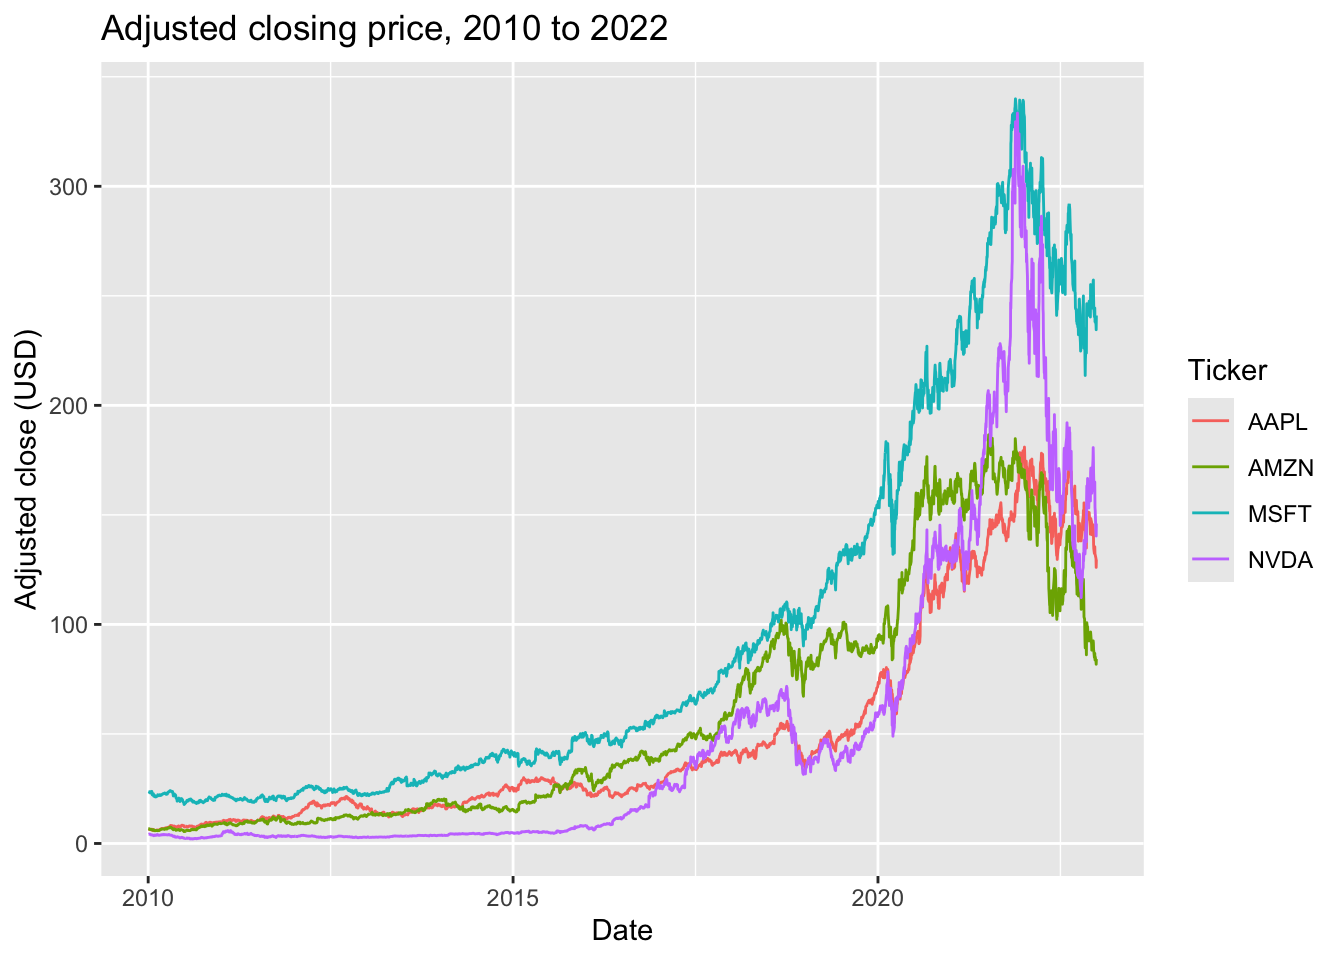
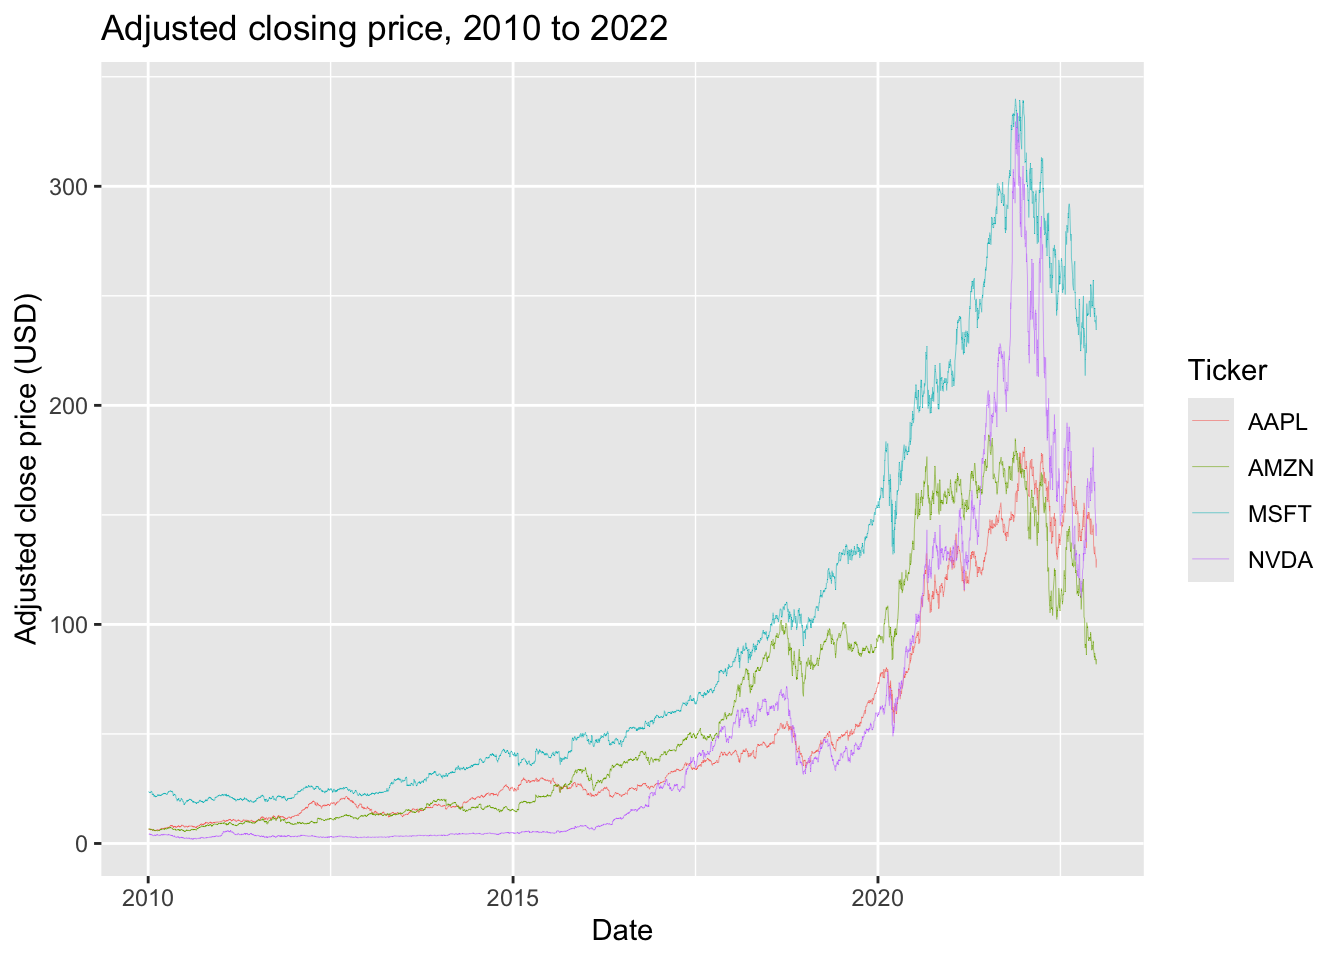
Website_vF

Changed region(s): [[0.0938, 0.0938, 0.8438, 0.875], [0.0, 0.3125, 0.0312, 0.6875]]

diff --git a/docs/bigtech.html b/docs/bigtech.html
@@ -6,7 +6,7 @@
 
 <meta name="viewport" content="width=device-width, initial-scale=1.0, user-scalable=yes">
 
-<meta name="author" content="Will Albrecht">
+<meta name="author" content="William Albrecht">
 <meta name="dcterms.date" content="2026-09-29">
 <meta name="description" content="Analysis of Big Tech stock price data from TidyTuesday">
 
@@ -348,7 +348,7 @@ pre > code.sourceCode > span > a:first-child::before { text-decoration: underlin
 
 <div>
   <div class="description">
-    <p>Analysis of Big Tech stock price data from TidyTuesday</p>
+    Analysis of Big Tech stock price data from TidyTuesday
   </div>
 </div>
 
@@ -358,7 +358,7 @@ pre > code.sourceCode > span > a:first-child::before { text-decoration: underlin
     <div>
     <div class="quarto-title-meta-heading">Author</div>
     <div class="quarto-title-meta-contents">
-             <p>Will Albrecht </p>
+             <p>William Albrecht </p>
           </div>
   </div>
     
@@ -377,7 +377,7 @@ pre > code.sourceCode > span > a:first-child::before { text-decoration: underlin
 </header>
 
 
-<p>This dataset contains daily prices and trading volume for 14 large tech companies from 2010 onward. The plot below tracks adjusted closing prices for four of them. Adjusted closing prices are the daily closing prices corrected for stock splits and dividends, so prices from different years can be compared directly.</p>
+<p>This dataset contains daily stock prices and trading volume for 14 large tech companies from 2010 to 2023. The line plot below represents the adjusted closing prices for Apple, Microsoft, Nvidia, and Amazon, household tech names with large market capitalizations (the stock prices for these four companies were recorded on 12/29/2022 at the latest). Adjusted closing price is the closing price adjusted for stock splits and dividends issued, so that stock prices can be accurately compared across the observed time frame.</p>
 <div class="cell">
 <details class="code-fold">
 <summary>Code</summary>
@@ -386,12 +386,10 @@ pre > code.sourceCode > span > a:first-child::before { text-decoration: underlin
 <span id="cb1-3"><a href="#cb1-3" aria-hidden="true" tabindex="-1"></a>big_tech_stock_prices <span class="ot">&lt;-</span> readr<span class="sc">::</span><span class="fu">read_csv</span>(<span class="st">'https://raw.githubusercontent.com/rfordatascience/tidytuesday/main/data/2023/2023-02-07/big_tech_stock_prices.csv'</span>)</span>
 <span id="cb1-4"><a href="#cb1-4" aria-hidden="true" tabindex="-1"></a></span>
 <span id="cb1-5"><a href="#cb1-5" aria-hidden="true" tabindex="-1"></a>big_tech_stock_prices <span class="sc">|&gt;</span></span>
-<span id="cb1-6"><a href="#cb1-6" aria-hidden="true" tabindex="-1"></a>  <span class="fu">filter</span>(stock_symbol <span class="sc">==</span> <span class="st">"AAPL"</span> <span class="sc">|</span> stock_symbol <span class="sc">==</span> <span class="st">"MSFT"</span> <span class="sc">|</span></span>
-<span id="cb1-7"><a href="#cb1-7" aria-hidden="true" tabindex="-1"></a>         stock_symbol <span class="sc">==</span> <span class="st">"NVDA"</span> <span class="sc">|</span> stock_symbol <span class="sc">==</span> <span class="st">"AMZN"</span>) <span class="sc">|&gt;</span></span>
-<span id="cb1-8"><a href="#cb1-8" aria-hidden="true" tabindex="-1"></a>  <span class="fu">ggplot</span>(<span class="fu">aes</span>(<span class="at">x =</span> date, <span class="at">y =</span> adj_close, <span class="at">color =</span> stock_symbol)) <span class="sc">+</span></span>
-<span id="cb1-9"><a href="#cb1-9" aria-hidden="true" tabindex="-1"></a>  <span class="fu">geom_line</span>() <span class="sc">+</span></span>
-<span id="cb1-10"><a href="#cb1-10" aria-hidden="true" tabindex="-1"></a>  <span class="fu">labs</span>(<span class="at">x =</span> <span class="st">"Date"</span>, <span class="at">y =</span> <span class="st">"Adjusted close (USD)"</span>, <span class="at">color =</span> <span class="st">"Ticker"</span>,</span>
-<span id="cb1-11"><a href="#cb1-11" aria-hidden="true" tabindex="-1"></a>       <span class="at">title =</span> <span class="st">"Adjusted closing price, 2010 to 2022"</span>)</span></code></pre></div><button title="Copy to Clipboard" class="code-copy-button"><i class="bi"></i></button></div>
+<span id="cb1-6"><a href="#cb1-6" aria-hidden="true" tabindex="-1"></a>    <span class="fu">filter</span>(stock_symbol <span class="sc">==</span> <span class="st">"AAPL"</span> <span class="sc">|</span> stock_symbol <span class="sc">==</span> <span class="st">"MSFT"</span> <span class="sc">|</span> stock_symbol <span class="sc">==</span> <span class="st">"NVDA"</span> <span class="sc">|</span> stock_symbol <span class="sc">==</span> <span class="st">"AMZN"</span>) <span class="sc">|&gt;</span></span>
+<span id="cb1-7"><a href="#cb1-7" aria-hidden="true" tabindex="-1"></a>    <span class="fu">ggplot</span>(<span class="fu">aes</span>(<span class="at">x =</span> date, <span class="at">y =</span> adj_close, <span class="at">color =</span> stock_symbol)) <span class="sc">+</span> </span>
+<span id="cb1-8"><a href="#cb1-8" aria-hidden="true" tabindex="-1"></a>    <span class="fu">geom_line</span>(<span class="at">linewidth =</span> <span class="fl">0.1</span>) <span class="sc">+</span></span>
+<span id="cb1-9"><a href="#cb1-9" aria-hidden="true" tabindex="-1"></a>    <span class="fu">labs</span>(<span class="at">x =</span> <span class="st">"Date"</span>, <span class="at">y =</span> <span class="st">"Adjusted close price (USD)"</span>, <span class="at">color =</span> <span class="st">"Ticker"</span>, <span class="at">title =</span> <span class="st">"Adjusted closing price, 2010 to 2022"</span>)</span></code></pre></div><button title="Copy to Clipboard" class="code-copy-button"><i class="bi"></i></button></div>
 </details>
 <div class="cell-output-display">
 <div>
@@ -402,7 +400,7 @@ pre > code.sourceCode > span > a:first-child::before { text-decoration: underlin
 </div>
 </div>
 <p>Data source: <a href="https://github.com/rfordatascience/tidytuesday/blob/main/data/2023/2023-02-07/readme.md">TidyTuesday, February 7, 2023</a>.</p>
-<p>Original data: Gower, Ethan. (2023). The Big Tech Stock Prices Data set comes from Yahoo Finance and was obtained through <a href="https://www.kaggle.com/datasets/evangower/big-tech-stock-prices">Kaggle</a></p>
+<p>Original data: Evan Gower compiled the data in 2023. The Big Tech Stock Prices data set comes from Yahoo Finance and was obtained through <a href="https://www.kaggle.com/datasets/evangower/big-tech-stock-prices">Kaggle</a>.</p>
 
 
 
